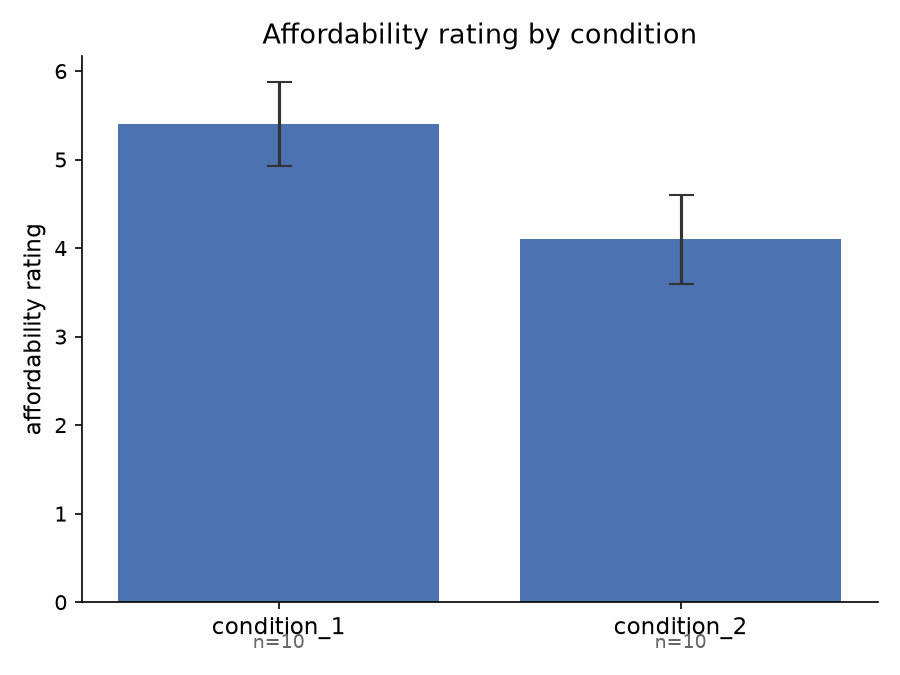
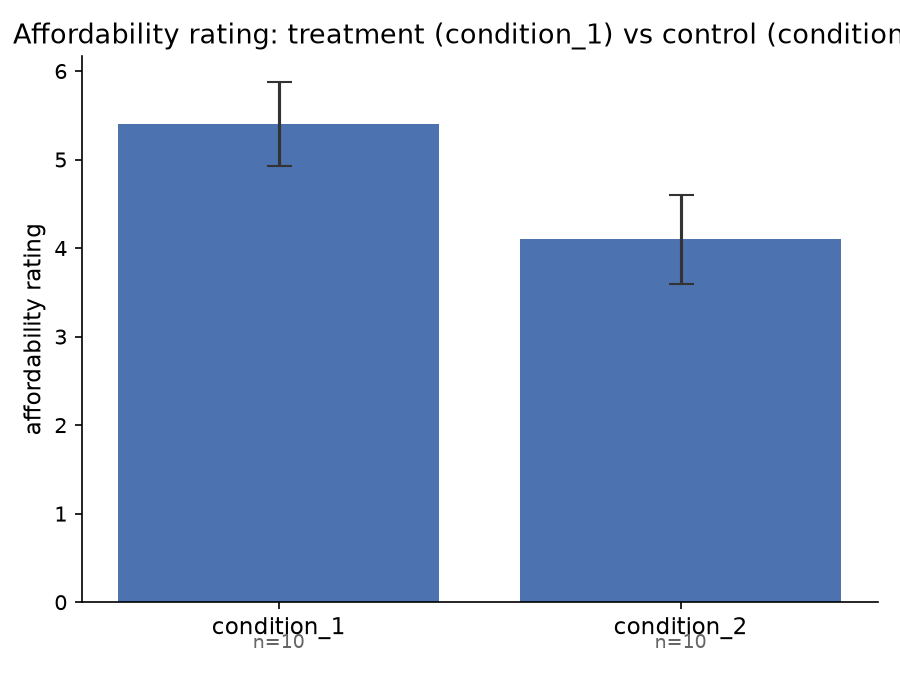
Unblind test-run-1: condition_1 = treatment, condition_2 = control
- Re-ran regressions with condition_2 as reference category so the
  treatment indicator now reads condition_1 vs. condition_2 (coefficients
  flip sign as expected, same magnitude/p-values as the blinded run)
- Regenerated charts with treatment/control-labeled titles
- Updated research_design.md and analysis_summary.md to record the
  reveal and interpret results as a pennies-a-day affordability-framing
  effect (treatment ~doubles sign-up rate vs. control at N=20, marginal
  p~.08, directionally consistent across choice/affordability/clarity)

Changed region(s): [[0.0, 0.0311, 1.0, 0.0933]]

diff --git a/projects/test-run-1/05_analysis/analysis_summary.md b/projects/test-run-1/05_analysis/analysis_summary.md
@@ -1,26 +1,30 @@
-# Analysis Summary: test-run-1 (blinded)
+# Analysis Summary: test-run-1 (unblinded 2026-07-17)
 
 N=20 synthetic subjects (10/condition), subagent mode, batch size 10, agent_type general-purpose.
 
+**Treatment = condition_1** ("$5 a day" framing). **Control = condition_2** ("$150 a month" framing).
+
 ## Balance check
 
-No imbalance at conventional p<.05 across age, gender, income_bracket, education, or subjective_numeracy. `financial_literacy` is borderline (condition_1 mean 2.4 vs condition_2 mean 1.7, F-test p=.055) -- worth re-checking at a larger N, but not flagged as a hard imbalance here.
+No imbalance at conventional p<.05 across age, gender, income_bracket, education, or subjective_numeracy. `financial_literacy` is borderline (treatment mean 2.4 vs control mean 1.7, F-test p=.055) -- worth re-checking at a larger N, but not flagged as a hard imbalance here.
 
 ## Primary outcome: choice (sign-up decision)
 
-- condition_1: 80% signed up (SE .133)
-- condition_2: 40% signed up (SE .163)
-- Logit: condition_2 coefficient = -1.79 (p=.079, marginal at N=20)
+- Control (condition_2, "$150/month"): 40% signed up (SE .163)
+- Treatment (condition_1, "$5/day"): 80% signed up (SE .133)
+- Logit: treatment coefficient = +1.79 (p=.079, marginal at N=20)
+
+The "pennies-a-day" framing roughly doubled the sign-up rate relative to the equivalent monthly framing, consistent with the classic affordability-framing effect in the behavioral economics literature (smaller, more frequent amounts read as more affordable than the same total presented as a larger periodic sum).
 
 ## Secondary outcomes
 
-- affordability_rating (1-7): condition_1 mean 5.4 vs condition_2 mean 4.1 (OLS coef -1.30, p=.077)
-- clarity_rating (1-7): condition_1 mean 5.8 vs condition_2 mean 5.2 (OLS coef -0.60, p=.077)
+- affordability_rating (1-7): treatment mean 5.4 vs control mean 4.1 (OLS coef +1.30, p=.077) -- the daily framing was rated more affordable, as expected if affordability perception is the driving mechanism.
+- clarity_rating (1-7): treatment mean 5.8 vs control mean 5.2 (OLS coef +0.60, p=.077) -- also rated as somewhat clearer, though this wasn't the primary manipulated dimension.
 
 ## Charts
 
-`charts/choice_by_condition.png`, `charts/affordability_by_condition.png`, `charts/clarity_by_condition.png`
+`charts/choice_by_condition.png`, `charts/affordability_by_condition.png`, `charts/clarity_by_condition.png` (titles now labeled treatment/control).
 
-## Note
+## Caveat
 
-All three outcomes point the same direction (condition_1 > condition_2) and land in the same marginal p~.08 range at this small N -- consistent, but underpowered to call decisively. No treatment/control interpretation is offered here per the blinding request; unblind when ready and I can reframe these results in those terms.
+All three outcomes point the same direction and land in the same marginal p~.08 range at this small N (20) -- directionally consistent with a real affordability-framing effect, but underpowered to call decisively. A larger N (e.g. 200/condition, per the earlier token-cost estimate) would be needed for a confident read.

diff --git a/projects/test-run-1/05_analysis/regression_results_affordability.md b/projects/test-run-1/05_analysis/regression_results_affordability.md
@@ -1,11 +1,11 @@
 # Regression Results: affordability_rating
 
 DV type: continuous (OLS)
-Treatment indicator: condition_2_indicator (1 = not 'condition_1')
+Treatment indicator: treatment (1 = not 'condition_2')
 
 ## Without controls
 
-Formula: `affordability_rating ~ condition_2_indicator`
+Formula: `affordability_rating ~ treatment`
 
 ```
                              OLS Regression Results                             
@@ -14,16 +14,16 @@ Dep. Variable:     affordability_rating   R-squared:                       0.163
 Model:                              OLS   Adj. R-squared:                  0.117
 Method:                   Least Squares   F-statistic:                     3.513
 Date:                  Fri, 17 Jul 2026   Prob (F-statistic):             0.0772
-Time:                          12:22:43   Log-Likelihood:                -36.103
+Time:                          12:52:11   Log-Likelihood:                -36.103
 No. Observations:                    20   AIC:                             76.21
 Df Residuals:                        18   BIC:                             78.20
 Df Model:                             1                                         
 Covariance Type:              nonrobust                                         
-=========================================================================================
-                            coef    std err          t      P>|t|      [0.025      0.975]
------------------------------------------------------------------------------------------
-Intercept                 5.4000      0.490     11.010      0.000       4.370       6.430
-condition_2_indicator    -1.3000      0.694     -1.874      0.077      -2.757       0.157
+==============================================================================
+                 coef    std err          t      P>|t|      [0.025      0.975]
+------------------------------------------------------------------------------
+Intercept      4.1000      0.490      8.359      0.000       3.070       5.130
+treatment      1.3000      0.694      1.874      0.077      -0.157       2.757
 ==============================================================================
 Omnibus:                        3.216   Durbin-Watson:                   2.039
 Prob(Omnibus):                  0.200   Jarque-Bera (JB):                1.402

diff --git a/projects/test-run-1/05_analysis/regression_results_clarity.md b/projects/test-run-1/05_analysis/regression_results_clarity.md
@@ -1,11 +1,11 @@
 # Regression Results: clarity_rating
 
 DV type: continuous (OLS)
-Treatment indicator: condition_2_indicator (1 = not 'condition_1')
+Treatment indicator: treatment (1 = not 'condition_2')
 
 ## Without controls
 
-Formula: `clarity_rating ~ condition_2_indicator`
+Formula: `clarity_rating ~ treatment`
 
 ```
                             OLS Regression Results                            
@@ -14,16 +14,16 @@ Dep. Variable:         clarity_rating   R-squared:                       0.164
 Model:                            OLS   Adj. R-squared:                  0.117
 Method:                 Least Squares   F-statistic:                     3.522
 Date:                Fri, 17 Jul 2026   Prob (F-statistic):             0.0769
-Time:                        12:22:46   Log-Likelihood:                -20.613
+Time:                        12:52:14   Log-Likelihood:                -20.613
 No. Observations:                  20   AIC:                             45.23
 Df Residuals:                      18   BIC:                             47.22
 Df Model:                           1                                         
 Covariance Type:            nonrobust                                         
-=========================================================================================
-                            coef    std err          t      P>|t|      [0.025      0.975]
------------------------------------------------------------------------------------------
-Intercept                 5.8000      0.226     25.655      0.000       5.325       6.275
-condition_2_indicator    -0.6000      0.320     -1.877      0.077      -1.272       0.072
+==============================================================================
+                 coef    std err          t      P>|t|      [0.025      0.975]
+------------------------------------------------------------------------------
+Intercept      5.2000      0.226     23.001      0.000       4.725       5.675
+treatment      0.6000      0.320      1.877      0.077      -0.072       1.272
 ==============================================================================
 Omnibus:                        2.161   Durbin-Watson:                   1.196
 Prob(Omnibus):                  0.339   Jarque-Bera (JB):                1.710

diff --git a/projects/test-run-1/05_analysis/regression_results_choice.md b/projects/test-run-1/05_analysis/regression_results_choice.md
@@ -1,11 +1,11 @@
 # Regression Results: choice
 
 DV type: binary (logit)
-Treatment indicator: condition_2_indicator (1 = not 'condition_1')
+Treatment indicator: treatment (1 = not 'condition_2')
 
 ## Without controls
 
-Formula: `choice ~ condition_2_indicator`
+Formula: `choice ~ treatment`
 
 ```
                            Logit Regression Results                           
@@ -14,13 +14,13 @@ Dep. Variable:                 choice   No. Observations:                   20
 Model:                          Logit   Df Residuals:                       18
 Method:                           MLE   Df Model:                            1
 Date:                Fri, 17 Jul 2026   Pseudo R-squ.:                  0.1282
-Time:                        12:22:31   Log-Likelihood:                -11.734
+Time:                        12:52:08   Log-Likelihood:                -11.734
 converged:                       True   LL-Null:                       -13.460
 Covariance Type:            nonrobust   LLR p-value:                   0.06317
-=========================================================================================
-                            coef    std err          z      P>|z|      [0.025      0.975]
------------------------------------------------------------------------------------------
-Intercept                 1.3863      0.791      1.754      0.080      -0.163       2.936
-condition_2_indicator    -1.7918      1.021     -1.756      0.079      -3.792       0.209
-=========================================================================================
+==============================================================================
+                 coef    std err          z      P>|z|      [0.025      0.975]
+------------------------------------------------------------------------------
+Intercept     -0.4055      0.645     -0.628      0.530      -1.671       0.860
+treatment      1.7918      1.021      1.756      0.079      -0.209       3.792
+==============================================================================
 ```

diff --git a/projects/test-run-1/03_design/research_design.md b/projects/test-run-1/03_design/research_design.md
@@ -1,17 +1,15 @@
 # Research Design: test-run-1
 
-**Blinded test.** The researcher has withheld which of the two conditions is the intended control/baseline vs. treatment/manipulation arm until after data collection. Both arms are tracked under neutral labels only.
+**Unblinded as of 2026-07-17.** Was run blind (researcher withheld arm assignment until after data collection); now revealed: condition_1 = treatment, condition_2 = control.
 
 ## Conditions
 
-| Condition | Content summary |
-|---|---|
-| condition_1 | Financial savings app; savings option framed as "$5 a day" |
-| condition_2 | Financial savings app; savings option framed as "$150 a month" |
+| Condition | Role | Content summary |
+|---|---|---|
+| condition_1 | Treatment | Financial savings app; savings option framed as "$5 a day" |
+| condition_2 | Control | Financial savings app; savings option framed as "$150 a month" |
 
-Both conditions share identical app description and question structure; the only manipulated element is the framing of the savings amount ($5/day vs. $150/month -- economically near-equivalent amounts, ~$150/month either way).
-
-No behavioral-principle annotation is given per condition since the researcher has not disclosed which arm represents which theoretical mechanism.
+Both conditions share identical app description and question structure; the only manipulated element is the framing of the savings amount ($5/day vs. $150/month -- economically near-equivalent amounts, ~$150/month either way). This is a "pennies-a-day" framing manipulation: presenting a recurring cost as a small daily amount rather than the equivalent monthly aggregate, hypothesized to increase perceived affordability and uptake.
 
 ## Outcome variable
 
